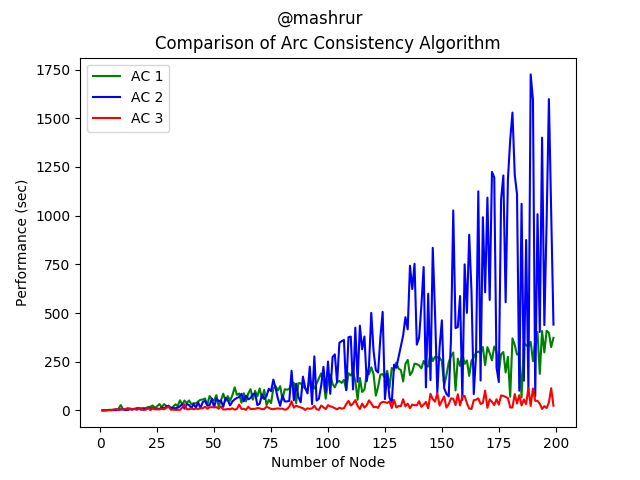
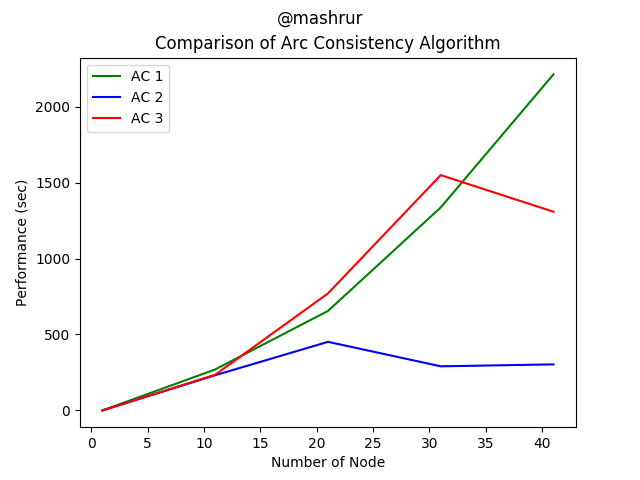
Visualize AC-1 to AC-3

diff --git a/main.py b/main.py
@@ -76,30 +76,33 @@ def visualize():
     xAc1 = []
     yAc1 = []
 
-    for node in range(1, 200):
-        print(node)
-        xAc1.append(node)
+    for node in range(1, 50, 10):
         mini = node
         maxi = (node*(node+1))//2
-        yAc1.append(executeAC1(node, random.randint(mini, maxi), 20))
+        edge = random.randint(mini, maxi)
+        xAc1.append(node)
+        print(node)
+        yAc1.append(executeAC1(node, edge, 100))
 
     xAc2 = []
     yAc2 = []
-    for node in range(1, 200):
-        xAc2.append(node)
+    for node in range(1, 50, 10):
         mini = node
         maxi = (node*(node+1))//2
+        edge = random.randint(mini, maxi)
+        xAc2.append(node)
         print(mini, maxi)
-        yAc2.append(executeAC2(node, random.randint(mini, maxi), 20))
+        yAc2.append(executeAC2(node, edge, 100))
 
     xAc3 = []
     yAc3 = []
-    for node in range(1, 200):
-        xAc3.append(node)
+    for node in range(1, 50, 10):
         mini = node
         maxi = (node * (node + 1)) // 2
+        edge = random.randint(mini, maxi)
+        xAc3.append(node)
         print(mini, maxi)
-        yAc3.append(executeAC3(node, random.randint(mini, maxi), 20))
+        yAc3.append(executeAC3(node, edge, 100))
 
     plt.plot(xAc1, yAc1, color='g', label='AC 1')
     plt.plot(xAc2, yAc2, color='b', label='AC 2')
